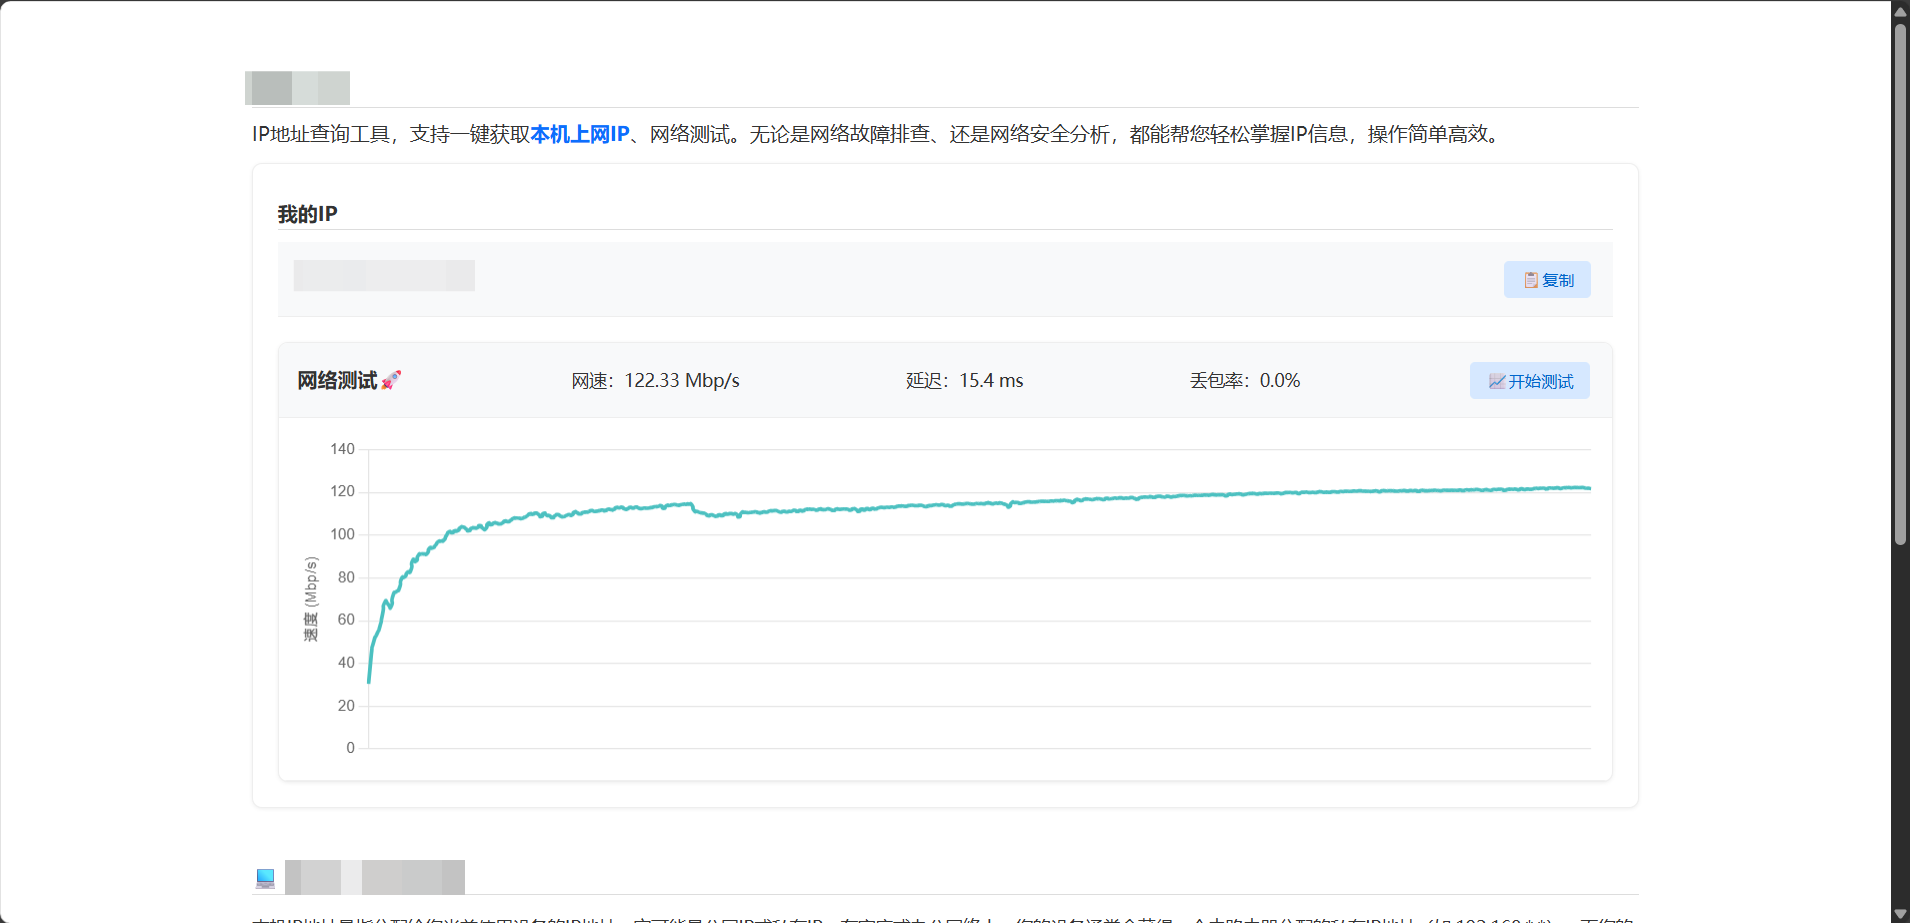
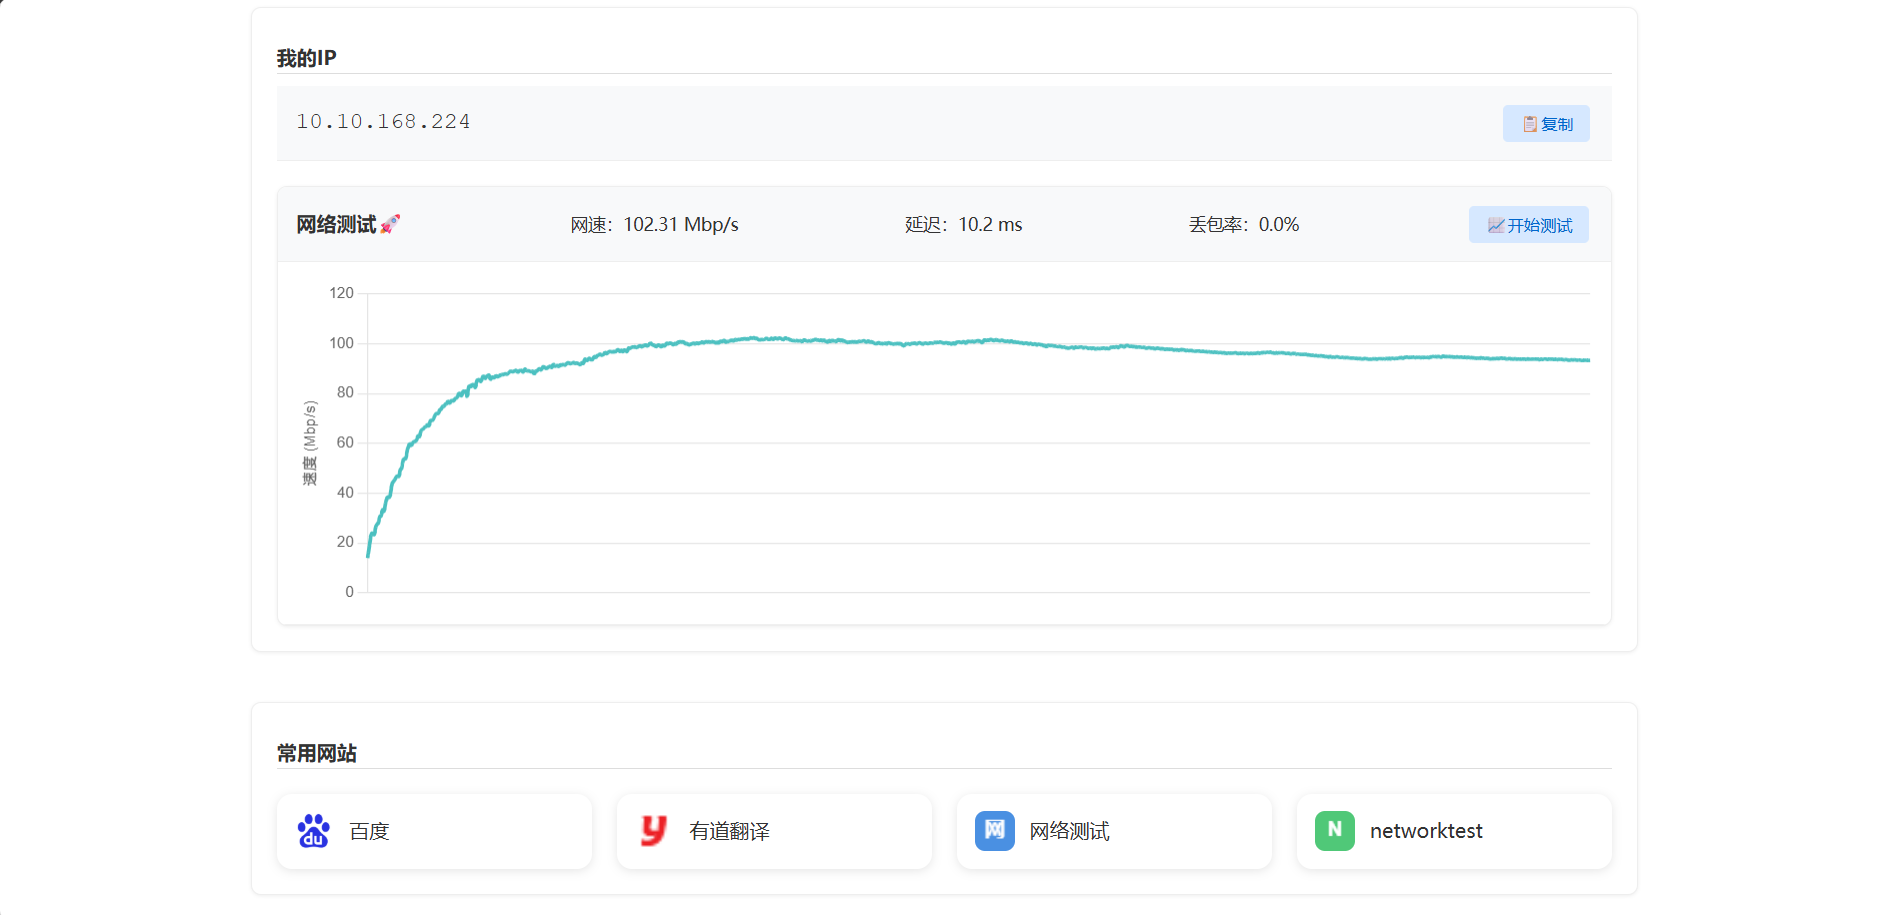
添加常用网站功能

diff --git a/assets/js/link.js b/assets/js/link.js
@@ -1,0 +1,189 @@
+// 常见 favicon 路径
+const DASHBOARD_COMMON_ICON_PATHS = [
+    '/favicon.ico',
+    '/favicon.png',
+    '/favicon.svg',
+    '/assets/favicon.png',
+    '/static/favicon.ico',
+    '/img/favicon.svg'
+];
+
+// 生成首字母 fallback 图标（Canvas）
+function createDashboardFallbackIcon(name) {
+    const canvas = document.createElement('canvas');
+    canvas.width = 32;
+    canvas.height = 32;
+    const ctx = canvas.getContext('2d');
+    const colors = ['#4A90E2', '#50C878', '#D9534F', '#F0AD4E', '#9B59B6'];
+    const bg = colors[Math.floor(Math.random() * colors.length)];
+    ctx.fillStyle = bg;
+    ctx.fillRect(0, 0, 32, 32);
+    ctx.font = 'bold 16px Arial';
+    ctx.fillStyle = '#fff';
+    ctx.textAlign = 'center';
+    ctx.textBaseline = 'middle';
+    // 处理名称可能为空的情况
+    const firstChar = name.charAt(0).toUpperCase() || '?';
+    ctx.fillText(firstChar, 16, 16);
+    return canvas.toDataURL('image/png');
+}
+
+// --- 修改后的 探测图标是否存在 函数 ---
+// 目标：更可靠地探测图标，并在失败时返回 fallback 图标
+// 策略：先尝试 CORS 请求，失败后再尝试 no-cors 探测
+async function loadDashboardIcon(baseUrl, name) {
+    // 确保 baseUrl 是一个有效的 URL 对象，用于解析相对路径
+    let baseUrlObj;
+    try {
+        baseUrlObj = new URL(baseUrl);
+    } catch (e) {
+        console.error(`Invalid base URL provided: ${baseUrl}`, e);
+        return createDashboardFallbackIcon(name);
+    }
+
+    // 创建一个 AbortController 用于设置超时
+    const controller = new AbortController();
+    const timeoutId = setTimeout(() => controller.abort(), 5000); // 5秒超时
+
+    for (const path of DASHBOARD_COMMON_ICON_PATHS) {
+        try {
+            // 使用 URL 构造函数确保路径正确拼接
+            const iconUrl = new URL(path, baseUrlObj).href;
+            // console.log(`[Debug] Trying to fetch icon (CORS): ${iconUrl}`);
+
+            // --- 第一步：尝试标准 CORS 请求 ---
+            let response;
+            try {
+                response = await fetch(iconUrl, {
+                    method: 'GET',
+                    mode: 'cors', // 明确指定 CORS 模式
+                    signal: controller.signal
+                });
+                 // console.log(`[Debug] CORS request completed for: ${iconUrl}`);
+            } catch (corsError) {
+                // console.log(`[Debug] CORS request failed for: ${iconUrl}`, corsError.message);
+                // 如果 CORS 失败，进入第二步
+                // 重置超时控制器（因为上一次 fetch 可能已经 abort 了）
+                clearTimeout(timeoutId);
+                const controller2 = new AbortController();
+                const timeoutId2 = setTimeout(() => controller2.abort(), 5000);
+
+                try {
+                    // --- 第二步：尝试 no-cors 模式探测 ---
+                    // console.log(`[Debug] Trying no-cors fetch for: ${iconUrl}`);
+                    const noCorsResponse = await fetch(iconUrl, {
+                        method: 'HEAD', // HEAD 请求更轻量
+                        mode: 'no-cors',
+                        signal: controller2.signal
+                    });
+                    clearTimeout(timeoutId2); // 清除本次 no-cors 尝试的超时
+
+                     // console.log(`[Debug] no-cors response type for ${iconUrl}:`, noCorsResponse.type);
+                    // 在 no-cors 模式下，如果请求发出（即使被阻止读取内容），type 通常是 'opaque'
+                    // 我们假设 'opaque' 意味着图标存在
+                    if (noCorsResponse.type === 'opaque') {
+                        // console.log(`[Debug] Assuming icon exists (no-cors opaque) for: ${iconUrl}`);
+                        return iconUrl; // 返回 URL，让浏览器尝试加载
+                    } else {
+                        // console.log(`[Debug] no-cors request for ${iconUrl} did not return opaque.`);
+                        // 可能是网络错误等，继续下一个路径
+                        continue;
+                    }
+                } catch (noCorsError) {
+                    clearTimeout(timeoutId2);
+                    // console.log(`[Debug] no-cors fetch also failed for: ${iconUrl}`, noCorsError.message);
+                    // 两种方式都失败，继续下一个路径
+                    continue;
+                }
+            }
+
+            // 如果执行到这里，说明 CORS 请求成功完成
+            clearTimeout(timeoutId); // 清除主超时
+
+            // 检查 CORS 响应状态码
+            if (response.ok) {
+                // console.log(`[Debug] Icon found via CORS: ${iconUrl}`);
+                return iconUrl;
+            } else {
+                // console.log(`[Debug] Icon not found via CORS (Status ${response.status}): ${iconUrl}`);
+                // 状态码不是 2xx，继续尝试下一个路径
+                continue;
+            }
+
+        } catch (generalError) {
+            clearTimeout(timeoutId);
+            // console.log(`[Debug] General error for path ${path}:`, generalError.message);
+            // 其他未预期的错误，继续下一个路径
+            continue;
+        }
+    }
+
+    // 如果所有预定义路径都尝试失败，则使用 fallback 图标
+    // console.log(`[Debug] All icon paths failed for ${name}, using fallback.`);
+    return createDashboardFallbackIcon(name);
+}
+// --- 修改结束 ---
+
+
+// 加载 links.txt 并渲染链接 (保持不变)
+async function loadDashboardLinks() {
+    const container = document.getElementById('dashboard-links-container');
+    container.innerHTML = '<p>正在加载常用网站目录...</p>'; // 显示加载状态
+
+    try {
+        // --- 重要：请确保存在 links.txt 文件 ---
+        const res = await fetch('links.txt');
+        if (!res.ok) {
+            throw new Error(`HTTP error! status: ${res.status}`);
+        }
+        const text = await res.text();
+        container.innerHTML = ''; // 清空加载状态
+
+        const lines = text.trim().split('\n');
+        for (const line of lines) {
+            if (!line || line.startsWith('#')) continue;
+            const parts = line.trim().split(/\s+/);
+            if (parts.length < 2) continue; // 至少需要名称和URL
+
+            const name = parts[0];
+            // 将剩余部分重新组合为URL，以支持包含空格的URL（虽然不常见）
+            const url = parts.slice(1).join(' ');
+
+            const a = document.createElement('a');
+            a.href = url;
+            a.target = '_blank';
+            a.className = 'dashboard-link-item';
+
+            const img = document.createElement('img');
+            img.className = 'dashboard-link-icon';
+            img.alt = `${name} icon`;
+            // 异步加载图标
+            img.src = await loadDashboardIcon(url, name);
+
+            const span = document.createElement('span');
+            span.textContent = name;
+            span.className = 'dashboard-link-text';
+
+            a.appendChild(img);
+            a.appendChild(span);
+            container.appendChild(a);
+        }
+
+        if (container.children.length === 0) {
+            container.innerHTML = '<p>links.txt 中未找到有效服务。</p>';
+        }
+    } catch (err) {
+        console.error('加载 links.txt 失败:', err);
+        container.innerHTML = `<p style="color:red;">加载内网服务列表失败: ${err.message}</p>`;
+    }
+}
+
+// 页面加载完成后执行导航链接加载 (保持不变)
+if (document.readyState === 'loading') {
+    document.addEventListener('DOMContentLoaded', loadDashboardLinks);
+} else {
+    loadDashboardLinks();
+}
+
+
+

diff --git a/index.html b/index.html
@@ -7,8 +7,8 @@
     <meta name="viewport" content="width=device-width,initial-scale=1">
     <meta name="referrer" content="always">
     <meta name="applicable-device" content="pc,mobile">
-    <title>本地IP查询 | 网络测试</title>
-    <link rel="icon" href="./images/icon.png" type="image/x-icon">
+    <title>本地IP查询 | 网络测试 | 内网导航</title>
+    <link rel="icon" href="./images/favicon.png" type="image/x-icon">
     <link rel="stylesheet" href="./assets/css/style.css">
     <link rel="stylesheet" href="./assets/css/font.css">
     <script src="./assets/js/chart.js"></script>
@@ -79,6 +79,18 @@
                                             </div>
                                         </div>
                                     </div>
+                                </div>
+                            </div>
+                        </div>
+                    <div class="x">
+                        <div class="y">
+                            <div class="z">
+                                <div class="ba">
+                                    <h3>常用网站</h3>
+                                </div>
+                                <!-- 导航容器 -->
+                                <div id="dashboard-links-container" class="dashboard-links">
+                                    <p>正在加载内网服务...</p>
                                 </div>
                             </div>
                         </div>
@@ -161,6 +173,7 @@
     </script>
     <script src="./assets/js/main.js"></script>
     <div id="toast" style="display:none;position:fixed;bottom:40px;left:50%;transform:translateX(-50%);background:rgba(0,0,0,0.8);color:#fff;padding:10px 24px;border-radius:6px;font-size:16px;z-index:9999;"></div>
+    <script src="./assets/js/link.js"></script>
 </body>
 
 </html>

diff --git a/assets/css/style.css b/assets/css/style.css
@@ -74,6 +74,7 @@ a {
 
 .x {
     display: flex;
+    flex-direction: column; /* 改为垂直排列 */
     gap: 20px;
 }
 
@@ -99,6 +100,25 @@ a {
     margin-bottom: 10px;
     font-size: 16px;
 }
+
+.info-bar {
+    display: flex;
+    justify-content: space-between;
+    align-items: center;
+    padding: 12px 15px;
+    background-color: #f8f9fa;
+    border-bottom: 1px solid #eee;
+    flex-wrap: wrap;
+    gap: 10px;
+}
+
+.info-bar h3 {
+    margin: 0;
+     border: none;
+    font-size: 16px;
+    color: #333;
+}
+
 
 .bn {
     display: flex;
@@ -334,12 +354,6 @@ a {
     padding: 12px 15px;
 }
 
-@media (max-width:1024px) {
-    .x {
-        flex-direction: column;
-    }
-}
-
 @media (max-width:767px) {
     .bl {
         flex-direction: column;
@@ -375,4 +389,41 @@ canvas {
   width: 100%;
   aspect-ratio: 4 / 1; /* 宽高比 4:1，即高度为宽度的 1/4 */
   background: #fff;
+}
+
+/* --- 内网导航页样式 --- */
+.dashboard-links {
+    display: grid;
+    grid-template-columns: repeat(auto-fit, minmax(200px, 1fr));
+    gap: 20px;
+    margin-top: 20px;
+}
+
+.dashboard-link-item {
+    display: flex;
+    align-items: center;
+    padding: 14px;
+    background: white;
+    border-radius: 12px;
+    box-shadow: 0 2px 8px rgba(0, 0, 0, 0.1);
+    text-decoration: none;
+    color: #333;
+    transition: all 0.2s ease;
+}
+
+.dashboard-link-item:hover {
+    transform: translateY(-2px);
+    box-shadow: 0 4px 12px rgba(0, 0, 0, 0.15);
+}
+
+.dashboard-link-icon {
+    width: 32px;
+    height: 32px;
+    margin-right: 12px;
+    border-radius: 8px;
+}
+
+.dashboard-link-text {
+    font-size: 16px;
+    font-weight: 500;
 }

diff --git a/readme.md b/readme.md
@@ -17,6 +17,9 @@
 
 克隆项目文件到目录后直接使用编写好的 `nginx.conf` 配置文件运行即可
 
+# 常用服务网站维护
+在inks.txt中按照 名称 URL (服务名和URL之间用空格或制表符分隔)格式添加即可
+
 ## ⚙ 使用到的技术点及特点：
 
 | 技术/工具 | 描述 | 特点 |
